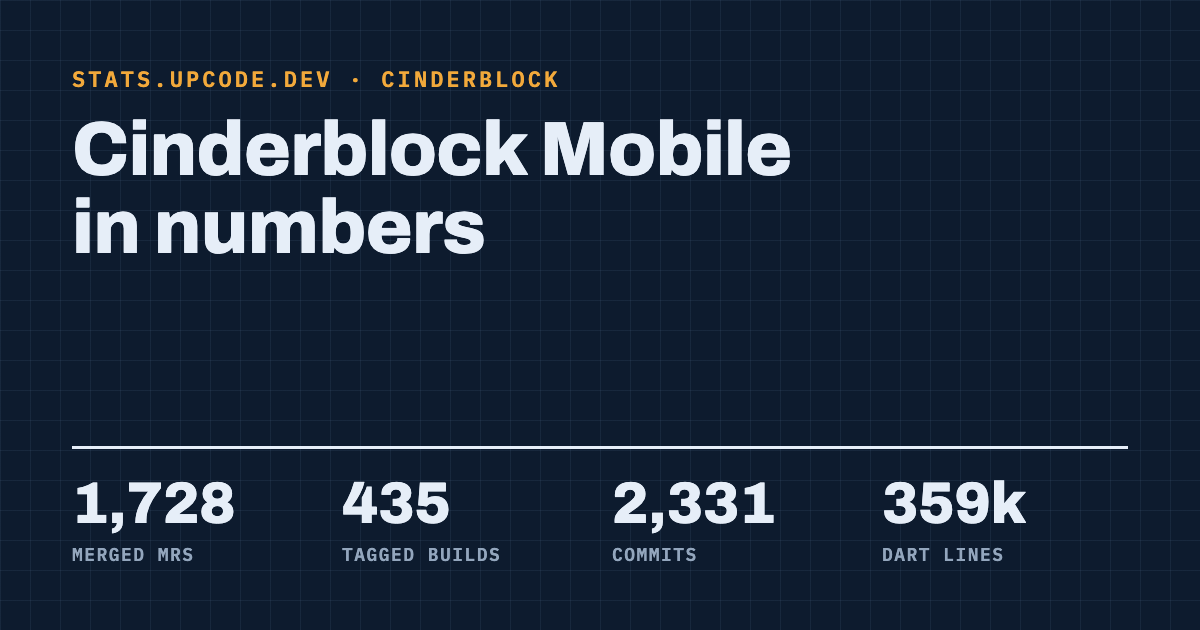
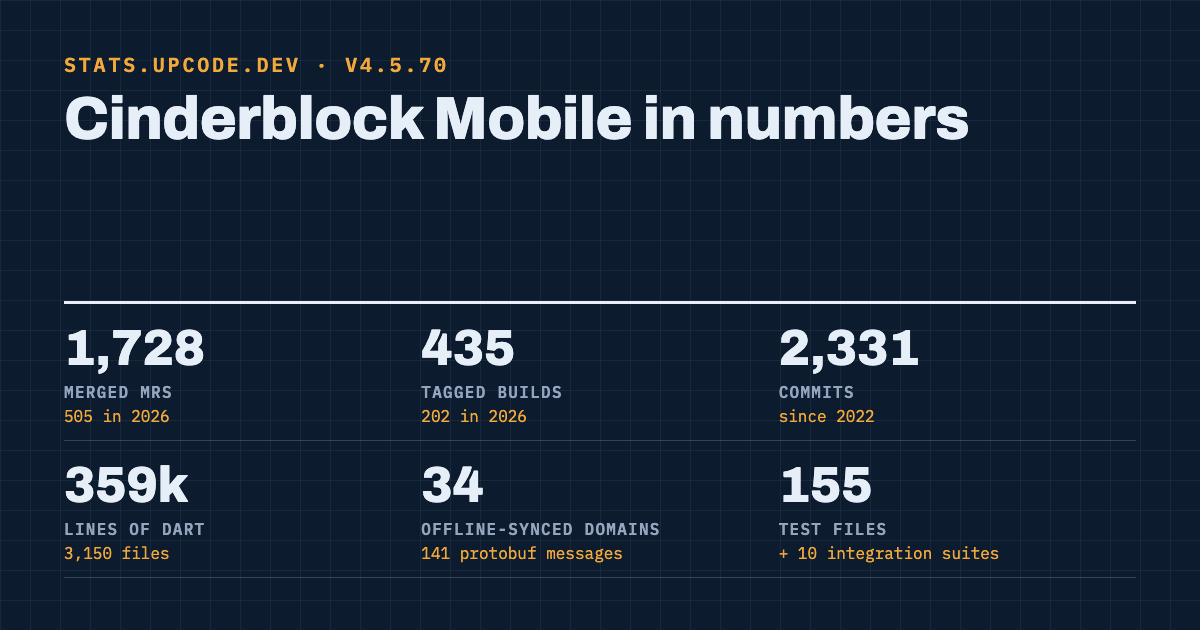
Put the stats in the link preview
The preview text (description and og:description) now states the numbers,
including this year's builds and merged MRs, and the preview image shows six
figures. Both are generated from the data by scripts/og.mjs; the image URL
carries a version so Slack refetches it after a refresh.

diff --git a/cinderblock/index.html b/cinderblock/index.html
@@ -4,13 +4,13 @@
     <meta charset="utf-8" />
     <meta name="viewport" content="width=device-width, initial-scale=1, viewport-fit=cover" />
     <title>Cinderblock Mobile in numbers</title>
-    <meta name="description" content="Builds, merge requests, commits and code size of the Cinderblock mobile app." />
+    <meta name="description" content="1,728 merged MRs (505 in 2026) · 435 builds (202 in 2026) · 2,331 commits · 359k lines of Dart · 34 offline-synced domains. Latest: v4.5.70." />
     <meta property="og:type" content="website" />
     <meta property="og:site_name" content="Upcode stats" />
     <meta property="og:url" content="https://stats.upcode.dev/cinderblock/" />
     <meta property="og:title" content="Cinderblock Mobile in numbers" />
-    <meta property="og:description" content="Builds, merge requests, commits and code size of the Cinderblock mobile app, generated from its repository." />
-    <meta property="og:image" content="https://stats.upcode.dev/cinderblock/og.png" />
+    <meta property="og:description" content="1,728 merged MRs (505 in 2026) · 435 builds (202 in 2026) · 2,331 commits · 359k lines of Dart · 34 offline-synced domains. Latest: v4.5.70." />
+    <meta property="og:image" content="https://stats.upcode.dev/cinderblock/og.png?v=2026-10-15-435" />
     <meta property="og:image:width" content="1200" />
     <meta property="og:image:height" content="630" />
     <meta property="og:image:alt" content="Cinderblock Mobile in numbers: merged MRs, tagged builds, commits and Dart lines" />
